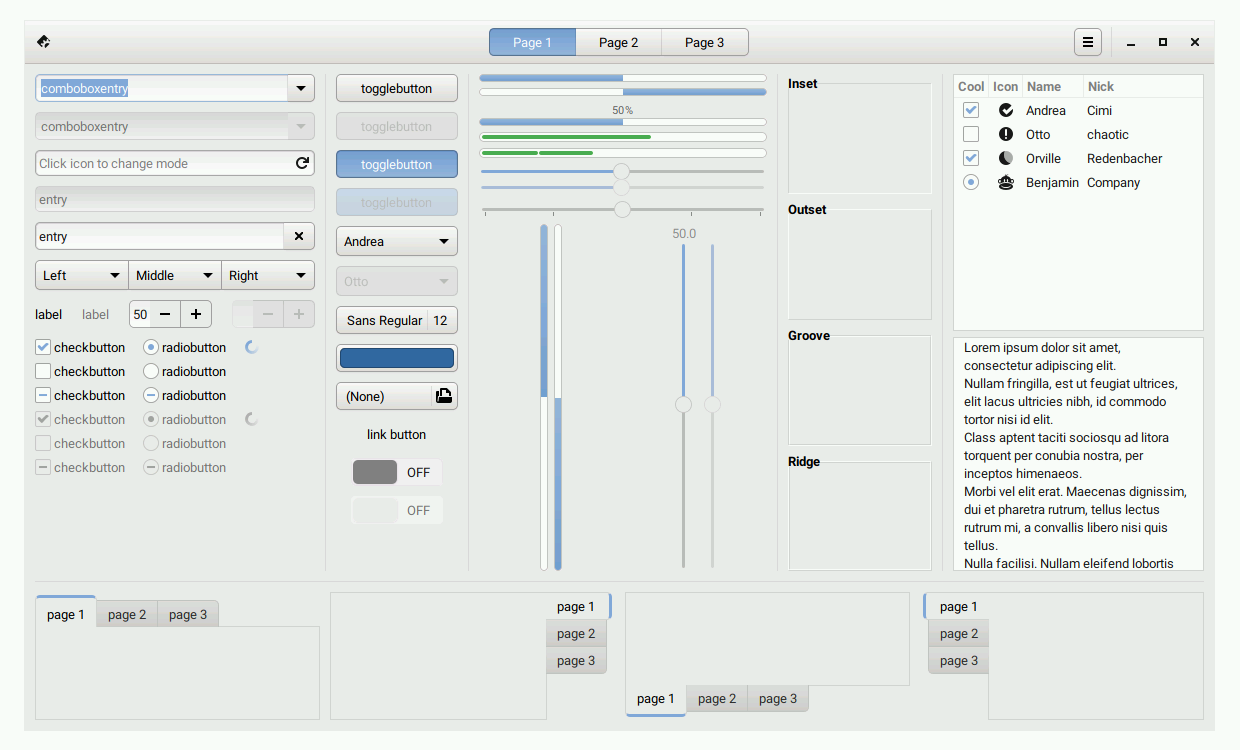
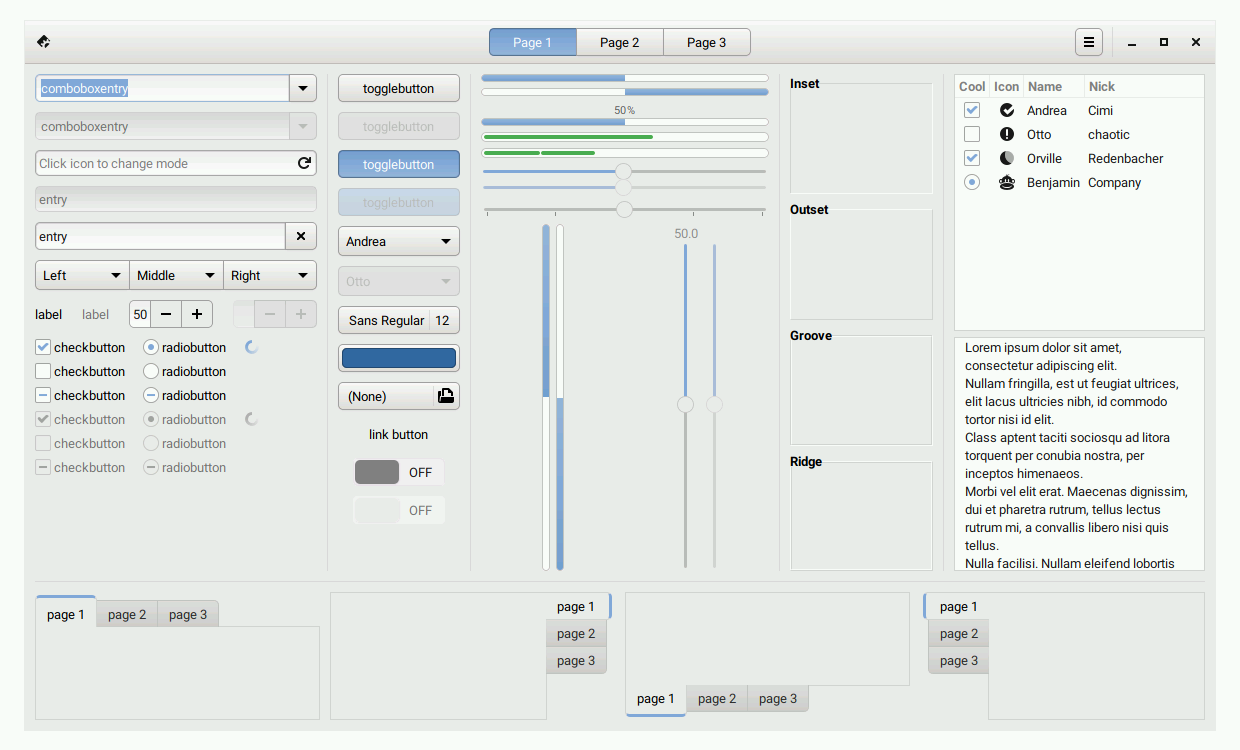
fix(gtk3.20: button): partially revert inset box-shadow change to avoid too strong shadow under the buttons

diff --git a/src/gtk-3.20/scss/widgets/_button.scss b/src/gtk-3.20/scss/widgets/_button.scss
@@ -192,26 +192,25 @@ $button_border_width: 1px;
 
     @extend %linked_button;
 
-    box-shadow: 0 1px 2px 0 alpha($dark_shadow, .12 + $shadow_strength);
+    box-shadow: 0 1px 2px -1px alpha($dark_shadow, .12 + $shadow_strength);
 
     &:focus, &:hover {
-        box-shadow: 0 1px 2px 0 alpha($dark_shadow, .32 + $shadow_strength);
+        box-shadow: 0 1px 2px -1px alpha($dark_shadow, .32 + $shadow_strength);
     }
-
 
     &:active, &:active:hover,
     &:active:focus, &:active:hover:focus,
     &:checked, &:checked:hover,
     &:checked:focus, &:checked:hover:focus {
         box-shadow: inset 0 1px alpha($dark_shadow, .07),
-        inset 0 0 alpha($dark_shadow, .05);
+        inset 0 -1px alpha($dark_shadow, .05);
     }
 
-    &:disabled { box-shadow: inset 0 0 shade($bg, .8); }
+    &:disabled { box-shadow: inset -1px 0 shade($bg, .8); }
 
-    &:last-child, &:only-child { box-shadow: 0 1px 2px 0 alpha($dark_shadow, .12 + $shadow_strength); }
+    &:last-child, &:only-child { box-shadow: 0 1px 2px -1px alpha($dark_shadow, .12 + $shadow_strength); }
 
-    &:last-child:hover, &:only-child:hover { box-shadow: 0 1px 2px 0 alpha($dark_shadow, .32 + $shadow_strength); }
+    &:last-child:hover, &:only-child:hover { box-shadow: 0 1px 2px -1px alpha($dark_shadow, .32 + $shadow_strength); }
 
     &:disabled:last-child, &:disabled:only-child,
     &:active:disabled:last-child, &:active:disabled:only-child,
@@ -220,14 +219,14 @@ $button_border_width: 1px;
     &:active:last-child, &:active:last-child:focus, &:active:last-child:hover, &:active:last-child:hover:focus,
     &:checked:last-child, &:checked:last-child:focus, &:checked:last-child:hover, &:checked:last-child:hover:focus {
         box-shadow: inset 0 1px alpha($dark_shadow, .07),
-        inset 0 0 alpha($dark_shadow, .06);
+        inset -1px 0 alpha($dark_shadow, .06);
     }
 
     &:active:only-child, &:active:only-child:focus, &:active:only-child:hover, &:active:only-child:hover:focus,
     &:checked:only-child, &:checked:only-child:focus, &:checked:only-child:hover, &:checked:only-child:hover:focus {
         box-shadow: inset 1px 0 alpha($dark_shadow, .06),
         inset 0 1px alpha($dark_shadow, .07),
-        inset 0 0 alpha($dark_shadow, .06);
+        inset -1px 0 alpha($dark_shadow, .06);
     }
 }
 
@@ -237,10 +236,10 @@ $button_border_width: 1px;
 
     @extend %linked_vertical_button;
 
-    box-shadow: 0 1px 2px 0 alpha($dark_shadow, .12 + $shadow_strength);
+    box-shadow: 0 1px 2px -1px alpha($dark_shadow, .12 + $shadow_strength);
 
     &:focus, &:hover {
-        box-shadow: 0 1px 2px 0 alpha($dark_shadow, .32 + $shadow_strength);
+        box-shadow: 0 1px 2px -1px alpha($dark_shadow, .32 + $shadow_strength);
     }
 
     &:active, &:active:hover,
@@ -248,14 +247,14 @@ $button_border_width: 1px;
     &:checked, &:checked:hover,
     &:checked:focus, &:checked:hover:focus {
         box-shadow: inset 1px 0 alpha($dark_shadow, .07),
-        inset 0 0 alpha($dark_shadow, .05);
+        inset -1px 0 alpha($dark_shadow, .05);
     }
 
-    &:disabled { box-shadow: inset 0 0 shade($bg, .8); }
+    &:disabled { box-shadow: inset 0 -1px shade($bg, .8); }
 
-    &:last-child, &:only-child { box-shadow: 0 1px 2px 0 alpha($dark_shadow, .12 + $shadow_strength); }
+    &:last-child, &:only-child { box-shadow: 0 1px 2px -1px alpha($dark_shadow, .12 + $shadow_strength); }
 
-    &:last-child:hover, &:only-child:hover { box-shadow: 0 1px 2px 0 alpha($dark_shadow, .32 + $shadow_strength); }
+    &:last-child:hover, &:only-child:hover { box-shadow: 0 1px 2px -1px alpha($dark_shadow, .32 + $shadow_strength); }
 
     &:disabled:last-child, &:disabled:only-child,
     &:active:disabled:last-child, &:active:disabled:only-child,
@@ -264,14 +263,14 @@ $button_border_width: 1px;
     &:active:last-child, &:active:last-child:focus, &:active:last-child:hover, &:active:last-child:hover:focus,
     &:checked:last-child, &:checked:last-child:focus, &:checked:last-child:hover, &:checked:last-child:hover:focus {
         box-shadow: inset 0 1px alpha($dark_shadow, .07),
-        inset 0 0 alpha($dark_shadow, .06);
+        inset -1px 0 alpha($dark_shadow, .06);
     }
 
     &:active:only-child, &:active:only-child:focus, &:active:only-child:hover, &:active:only-child:hover:focus,
     &:checked:only-child, &:checked:only-child:focus, &:checked:only-child:hover, &:checked:only-child:hover:focus {
         box-shadow: inset 1px 0 alpha($dark_shadow, .06),
         inset 0 1px alpha($dark_shadow, .07),
-        inset 0 0 alpha($dark_shadow, .06);
+        inset -1px 0 alpha($dark_shadow, .06);
     }
 }
 
@@ -341,7 +340,8 @@ $button_border_width: 1px;
     @include default_linked_button_mixin($bg, $fg);
 
     color: $fg;
-    box-shadow: 0 1px 2px 0 alpha($dark_shadow, .12 + $shadow_strength);
+    box-shadow: 0 1px 2px -1px alpha($dark_shadow, .12 + $shadow_strength);
+
 
     &.flat {
         //color: mix($bg, $fg, .2);
@@ -359,7 +359,7 @@ $button_border_width: 1px;
             @include border(alpha($fg, .2 + $button_border_strength));
 
             color: $fg;
-            box-shadow: 0 1px 2px 0 alpha($dark_shadow, .22 + $shadow_strength);
+            box-shadow: 0 1px 2px -1px alpha($dark_shadow, .22 + $shadow_strength);
         }
 
         &:focus {
@@ -391,8 +391,8 @@ $button_border_width: 1px;
             color: $selected_fg_color;
             box-shadow: inset 1px 0 alpha($fg, .06),
             inset  0 1px alpha($fg, .07),
-            inset 0 0 alpha($fg, .06),
-            inset 0 0 alpha($fg, .05);
+            inset -1px 0 alpha($fg, .06),
+            inset 0 -1px alpha($fg, .05);
 
             &:focus, &:hover {
                 /*@include linear-gradient(shade($bg, .65), to top);*/
